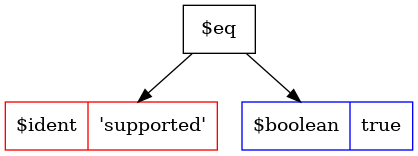
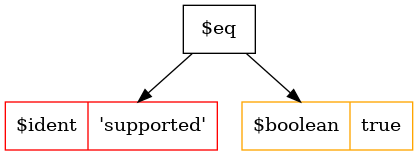
fix lint

Changed region(s): [[0.5598, 0.641, 0.9952, 0.9744]]

diff --git a/v5/pkg/walkers/graphviz/walk.go b/v5/pkg/walkers/graphviz/walk.go
@@ -100,7 +100,7 @@ func Walk(in string, n tsl.Node, nodeID string) (out string, err error) {
 		// Add leaf label and value.
 		nodeLabel := fmt.Sprintf("%s [%s label=\"%s | %v\" ]",
 			nodeID,
-			numberStyle,
+			dateStyle,
 			n.Func,
 			n.Left)
 		out = fmt.Sprintf("%s%s", in, nodeLabel)
